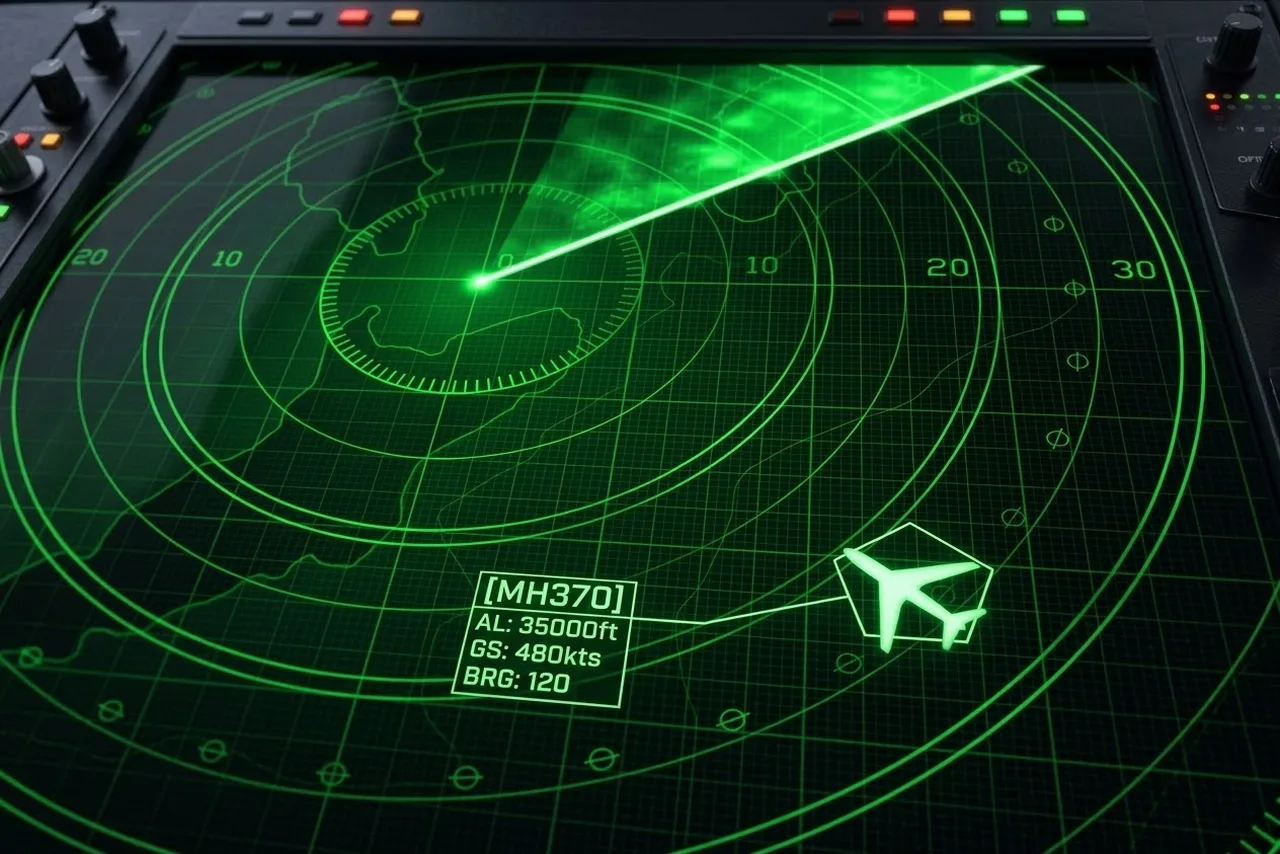
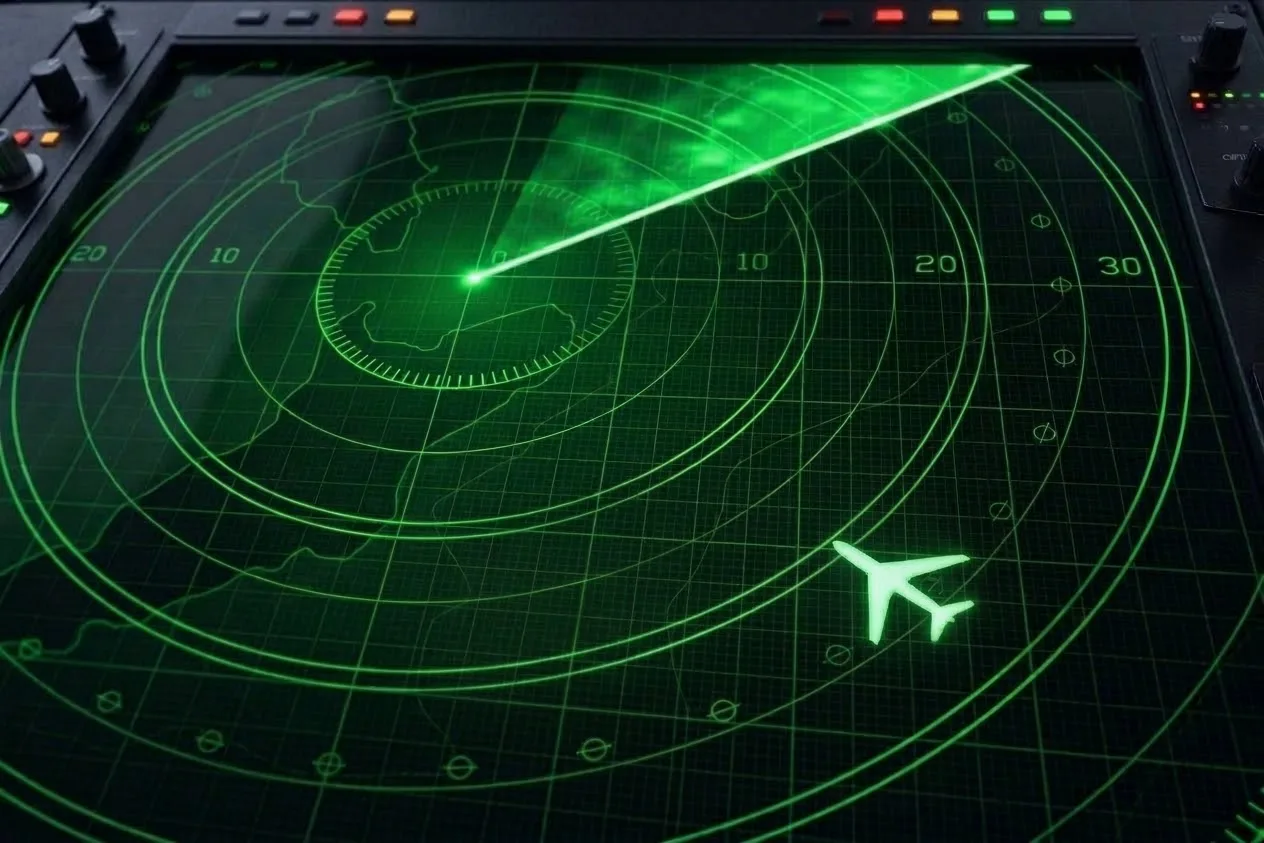
Hangar Escola: fotos nos capítulos 6, 7 e 9 do MH370
Claude-Session: https://claude.ai/code/session_01PxKViBYL6qRqF4hkoHqSJb

diff --git a/aviao/desastres.js b/aviao/desastres.js
@@ -573,13 +573,13 @@ const ACIDENTES = [
     p: ["Menos de dois minutos depois, à 01:21:13 seg, o sinal do transponder do MH370 desapareceu das telas de controle, logo depois de o avião passar pelo ponto IGARI. A etiqueta com o nome do voo simplesmente sumiu do radar.", "Ninguém deu o alarme na hora. Em Ho Chi Minh, o controle esperava o contato do avião, que não veio. Só à 01:38 os vietnamitas ligaram para Kuala Lumpur perguntando pelo MH370.", "Seguiram-se horas de confusão. Os controladores dos dois países trocavam ligações, a empresa chegou a informar que o avião parecia estar sobre o Camboja, e um avião da própria Malaysia Airlines que passava pela região tentou chamar o MH370 pelo rádio. O piloto disse ter ouvido apenas chiado e algo parecido com um murmúrio.", "O centro de busca e salvamento só foi acionado às 05:30, mais de quatro horas depois do sumiço. O relatório oficial apontaria, anos depois, falhas dos controles de tráfego aéreo nessa noite."] },
   { t: "A volta no escuro", parte: 1, hora: "01:22", lugar: "Sobre a península da Malásia", sabia: "O radar militar é um radar primário: ele enxerga o eco de qualquer objeto grande no céu, com ou sem transponder, mas não sabe quem é.", cena: CENAS.curva,
     p: ["Enquanto os controles procuravam o avião, os radares militares da Malásia registravam um eco sem identificação. Logo depois do ponto IGARI, o MH370 fez uma curva fechada para a esquerda e deu meia-volta, para o sudoeste.", "O avião atravessou de volta a península da Malásia, passou perto de Kota Bharu e seguiu em direção à ilha de Penang, na costa oeste. Por volta da 01:52, passou ao sul de Penang, a cidade natal do comandante.", "Os militares viram o eco, mas não reagiram. Consideraram que era um avião civil, sem ameaça, e ninguém mandou caças para olhar de perto.", "A investigação concluiria que a curva muito provavelmente foi feita com o avião sendo pilotado à mão, e não pelo piloto automático. Quem pilotava, e por quê, continua sem resposta."] },
-  { t: "O último eco", foto: { src: "assets/mh370-ultimo-eco.webp", legenda: "Recriação de uma tela de radar com o MH370 (imagem ilustrativa). No radar militar, o avião era só um eco sem nome: sem o transponder, não havia etiqueta com altitude e velocidade.", tag: "02:22 · o último eco no radar militar" }, parte: 1, hora: "02:22", lugar: "Mar de Andamão", sabia: "Depois de Penang, o avião seguiu pelo Estreito de Malaca, uma das rotas de navios mais movimentadas do mundo, entre a Malásia e a ilha de Sumatra.", cena: CENAS.ultimoEco,
+  { t: "O último eco", foto: { src: "assets/mh370-ultimo-eco.webp", legenda: "Recriação de uma tela de radar (imagem ilustrativa). No radar militar, o MH370 era só um eco sem nome: sem o transponder, não aparecia identificação, altitude nem velocidade.", tag: "02:22 · o último eco no radar militar" }, parte: 1, hora: "02:22", lugar: "Mar de Andamão", sabia: "Depois de Penang, o avião seguiu pelo Estreito de Malaca, uma das rotas de navios mais movimentadas do mundo, entre a Malásia e a ilha de Sumatra.", cena: CENAS.ultimoEco,
     p: ["Depois de Penang, o eco seguiu para o noroeste, sobre o Estreito de Malaca, em direção ao Mar de Andamão. O avião continuava em silêncio: sem rádio, sem transponder, sem mensagens.", "Às 02:22, o radar militar registrou o último eco do MH370, cerca de 200 milhas náuticas a noroeste de Penang. Depois disso, o avião saiu do alcance de todos os radares.", "Ninguém sabe o que acontecia lá dentro. Não se sabe se os passageiros perceberam a mudança de rumo, se estavam dormindo, se estavam conscientes. Nenhum telefone, nenhuma mensagem, nenhum pedido de socorro saiu do avião.", "Para o mundo, o MH370 tinha desaparecido. Mas ainda havia alguém escutando."] },
-  { t: "O satélite que continuou ouvindo", parte: 2, hora: "02:25", lugar: "Algum lugar sobre o Oceano Índico", sabia: "Os dados do MH370 foram analisados pela empresa britânica Inmarsat. Foi a primeira vez que esse tipo de sinal foi usado para tentar descobrir a rota de um avião.", cena: CENAS.satelite,
+  { t: "O satélite que continuou ouvindo", foto: { src: "assets/mh370-satelite.webp", legenda: "Recriação de um satélite da Inmarsat em órbita sobre a Terra (imagem ilustrativa)", tag: "Um “aperto de mão” por hora" }, parte: 2, hora: "02:25", lugar: "Algum lugar sobre o Oceano Índico", sabia: "Os dados do MH370 foram analisados pela empresa britânica Inmarsat. Foi a primeira vez que esse tipo de sinal foi usado para tentar descobrir a rota de um avião.", cena: CENAS.satelite,
     p: ["Às 02:25, três minutos depois do último eco no radar, o terminal de comunicação por satélite do avião voltou a se conectar sozinho. Ele tinha sido desligado e religado, por um motivo que ninguém sabe explicar.", "O avião estava ligado a um satélite da empresa Inmarsat, parado sobre o Oceano Índico. A cada hora, mais ou menos, a estação em terra mandava um sinal perguntando se o avião ainda estava lá, e o terminal respondia sozinho. Era só um “aperto de mão”, sem posição, sem mensagem.", "Às 02:39 e às 07:13, a Malaysia Airlines ligou para o avião por esse satélite. O telefone tocou na cabine e ninguém atendeu.", "Mas os apertos de mão guardavam uma pista. Pelo tempo que o sinal levava para ir e voltar, dava para saber a que distância o avião estava do satélite. Cada resposta virava um arco sobre o mapa: o avião estava em algum ponto daquela linha."] },
   { t: "08:19", parte: 2, hora: "08:19", lugar: "Sul do Oceano Índico", sabia: "Pela análise de pequenas variações na frequência do sinal, os especialistas concluíram que o avião voou para o sul, e não para o norte, em direção à Ásia Central.", cena: CENAS.arco7,
     p: ["Às 06:30, o MH370 deveria pousar em Pequim. No aeroporto, famílias esperavam no saguão de desembarque. O painel mostrava o voo como atrasado. Às 07:24, a Malaysia Airlines anunciou que tinha perdido o contato com o avião.", "Enquanto isso, o 777 seguia voando sozinho, para o sul, sobre o oceano, havia horas. Às 08:11, respondeu a mais um aperto de mão.", "Às 08:19, o terminal mandou um último sinal, incompleto. Os especialistas acreditam que foi o momento em que o combustível acabou e os motores pararam: sem energia, o sistema reiniciou e tentou se conectar uma última vez. Esse sinal deu origem ao famoso 7º arco.", "Às 09:15, o satélite chamou de novo. Não houve resposta. O MH370 tinha caído em algum ponto do sul do Oceano Índico, um dos lugares mais remotos e profundos do planeta, quase sete horas e meia depois da decolagem."] },
-  { t: "Procurando no lugar errado", parte: 3, hora: "Março de 2014", lugar: "Mar da China Meridional", sabia: "Quatro meses depois, em julho de 2014, outro avião da Malaysia Airlines, o MH17, foi derrubado por um míssil sobre a Ucrânia, com 298 pessoas a bordo.", cena: CENAS.buscaMar,
+  { t: "Procurando no lugar errado", foto: { src: "assets/mh370-busca.webp", legenda: "Recriação de navios e aviões de vários países na busca pelo MH370 (imagem ilustrativa)", tag: "26 países na busca" }, parte: 3, hora: "Março de 2014", lugar: "Mar da China Meridional", sabia: "Quatro meses depois, em julho de 2014, outro avião da Malaysia Airlines, o MH17, foi derrubado por um míssil sobre a Ucrânia, com 298 pessoas a bordo.", cena: CENAS.buscaMar,
     p: ["Nos primeiros dias, navios e aviões de vários países procuraram o MH370 no Mar da China Meridional, onde ele tinha sumido do radar civil. Manchas de óleo e objetos boiando foram examinados. Nada era do avião.", "Só alguns dias depois os militares malaios revelaram que tinham visto o eco voltando sobre a península. A busca se espalhou pelo Estreito de Malaca e pelo Mar de Andamão. Chegou a envolver 26 países.", "Em Pequim, as famílias passavam os dias num hotel, esperando notícias que não chegavam. As informações desencontradas do governo malaio e da empresa provocaram revolta.", "Em 15 de março, o primeiro-ministro da Malásia, Najib Razak, anunciou que as comunicações do avião tinham sido desligadas de forma deliberada e que ele tinha voado por horas depois de sumir do radar."] },
   { t: "“No sul do Oceano Índico”", parte: 3, hora: "24 de março", lugar: "Kuala Lumpur", sabia: "Em janeiro de 2015, as autoridades da Malásia declararam oficialmente o desaparecimento do MH370 um acidente, e todos a bordo foram considerados mortos.", cena: CENAS.anuncio,
     p: ["Com a análise dos sinais do satélite, a Inmarsat e os investigadores britânicos concluíram que o avião tinha voado para o sul até ficar sem combustível, longe de qualquer pista de pouso.", "Em 24 de março de 2014, Najib Razak foi à televisão e anunciou: o voo MH370 terminou no sul do Oceano Índico. Pouco antes, a Malaysia Airlines tinha mandado mensagens de texto a parte das famílias dizendo que não havia sobreviventes.", "A notícia, e a forma como foi dada, causou desespero e raiva. Em Pequim, familiares protestaram em frente à embaixada da Malásia. Muitos não aceitaram a conclusão sem nenhum destroço como prova.", "A busca mudou de lugar: milhares de quilômetros ao sul, a oeste da Austrália, que passou a coordenar a operação."] },

diff --git a/aviao/sw.js b/aviao/sw.js
@@ -1,7 +1,7 @@
 /* Service worker: o app abre e funciona offline. */
-const CACHE = 'hangar-escola-v143';
+const CACHE = 'hangar-escola-v144';
 // Os arquivos levam "?v=" no index.html: ao mudar a versão, o celular nunca mistura CSS/JS antigo com HTML novo.
-const FILES = ['./', 'index.html', 'style.css?v=143', 'avioes.js?v=143', 'catalogo747.js?v=143', 'cockpit747.js?v=143', 'motor3d.js?v=143', 'motor747.js?v=143', 'meteo.js?v=143', 'radio.js?v=143', 'historia.js?v=143', 'desastres.js?v=143', 'app.js?v=143', 'icon.svg', 'apple-touch-icon.png', 'icon-192.png', 'icon-512.png', 'manifest.webmanifest', 'assets/747-lateral.jpg', 'assets/747-frontal.jpg', 'assets/747-motor.jpg', 'assets/747-superior.png', 'assets/747-lado.webp', 'assets/747-lado-prof.webp', 'assets/747-tras.webp', 'assets/747-tras-trem.webp', 'assets/bank-angle.mp3', 'assets/v1.mp3', 'assets/nuvem-cb.webp', 'assets/nuvem-cu.webp', 'assets/nuvem-ci.webp', 'assets/nuvem-cc.webp', 'assets/nuvem-cs.webp', 'assets/nuvem-ac.webp', 'assets/nuvem-as.webp', 'assets/nuvem-ns.webp', 'assets/nuvem-sc.webp', 'assets/nuvem-st.webp', 'assets/nuvens-atlas.webp', 'assets/historia-1881.webp', 'assets/historia-vevey.webp', 'assets/historia-serraria.webp', 'assets/historia-dominguez.webp', 'assets/historia-curtiss.webp', 'assets/jal123-mapa.webp', 'assets/jal123-haneda.webp', 'assets/jal123-decolagem.webp', 'assets/jal123-cauda.webp', 'assets/jal123-cabine.webp', 'assets/jal123-hidraulico.webp', 'assets/jal123-manetes.webp', 'assets/jal123-montanhas.webp', 'assets/jal123-bilhete.webp', 'assets/jal123-c130.webp', 'assets/jal123-deriva.webp', 'assets/af447-mapa.webp', 'assets/af447-galeao.webp', 'assets/af447-decolagem.webp', 'assets/af447-lua.webp', 'assets/af447-tempestade.webp', 'assets/af447-painel.webp', 'assets/cauda-af.webp', 'assets/cauda-jal.webp', 'assets/cauda-mh.webp', 'assets/af447-pitot.webp', 'assets/af447-pitot-gelo.webp', 'assets/af447-manches.webp', 'assets/af447-estol.webp', 'assets/af447-cabine.webp', 'assets/af447-queda.webp', 'assets/af447-deriva.webp', 'assets/af447-painel-voos.webp', 'assets/af447-fundo.webp', 'assets/af447-relatorio.webp', 'assets/af447-sondas.webp', 'assets/af447-tribunal.webp', 'assets/af447-estol-diagrama.webp', 'assets/mh370-mapa.webp', 'assets/mh370-klia.webp', 'assets/mh370-decolagem.webp', 'assets/mh370-cinto.webp', 'assets/mh370-radar.webp', 'assets/mh370-peninsula.webp', 'assets/mh370-oceano.webp', 'assets/mh370-ultimo-eco.webp'];
+const FILES = ['./', 'index.html', 'style.css?v=144', 'avioes.js?v=144', 'catalogo747.js?v=144', 'cockpit747.js?v=144', 'motor3d.js?v=144', 'motor747.js?v=144', 'meteo.js?v=144', 'radio.js?v=144', 'historia.js?v=144', 'desastres.js?v=144', 'app.js?v=144', 'icon.svg', 'apple-touch-icon.png', 'icon-192.png', 'icon-512.png', 'manifest.webmanifest', 'assets/747-lateral.jpg', 'assets/747-frontal.jpg', 'assets/747-motor.jpg', 'assets/747-superior.png', 'assets/747-lado.webp', 'assets/747-lado-prof.webp', 'assets/747-tras.webp', 'assets/747-tras-trem.webp', 'assets/bank-angle.mp3', 'assets/v1.mp3', 'assets/nuvem-cb.webp', 'assets/nuvem-cu.webp', 'assets/nuvem-ci.webp', 'assets/nuvem-cc.webp', 'assets/nuvem-cs.webp', 'assets/nuvem-ac.webp', 'assets/nuvem-as.webp', 'assets/nuvem-ns.webp', 'assets/nuvem-sc.webp', 'assets/nuvem-st.webp', 'assets/nuvens-atlas.webp', 'assets/historia-1881.webp', 'assets/historia-vevey.webp', 'assets/historia-serraria.webp', 'assets/historia-dominguez.webp', 'assets/historia-curtiss.webp', 'assets/jal123-mapa.webp', 'assets/jal123-haneda.webp', 'assets/jal123-decolagem.webp', 'assets/jal123-cauda.webp', 'assets/jal123-cabine.webp', 'assets/jal123-hidraulico.webp', 'assets/jal123-manetes.webp', 'assets/jal123-montanhas.webp', 'assets/jal123-bilhete.webp', 'assets/jal123-c130.webp', 'assets/jal123-deriva.webp', 'assets/af447-mapa.webp', 'assets/af447-galeao.webp', 'assets/af447-decolagem.webp', 'assets/af447-lua.webp', 'assets/af447-tempestade.webp', 'assets/af447-painel.webp', 'assets/cauda-af.webp', 'assets/cauda-jal.webp', 'assets/cauda-mh.webp', 'assets/af447-pitot.webp', 'assets/af447-pitot-gelo.webp', 'assets/af447-manches.webp', 'assets/af447-estol.webp', 'assets/af447-cabine.webp', 'assets/af447-queda.webp', 'assets/af447-deriva.webp', 'assets/af447-painel-voos.webp', 'assets/af447-fundo.webp', 'assets/af447-relatorio.webp', 'assets/af447-sondas.webp', 'assets/af447-tribunal.webp', 'assets/af447-estol-diagrama.webp', 'assets/mh370-mapa.webp', 'assets/mh370-klia.webp', 'assets/mh370-decolagem.webp', 'assets/mh370-cinto.webp', 'assets/mh370-radar.webp', 'assets/mh370-peninsula.webp', 'assets/mh370-oceano.webp', 'assets/mh370-ultimo-eco.webp', 'assets/mh370-satelite.webp', 'assets/mh370-busca.webp'];
 
 self.addEventListener('install', (e) => {
   e.waitUntil(caches.open(CACHE).then((c) => c.addAll(FILES)).then(() => self.skipWaiting()));

diff --git a/aviao/index.html b/aviao/index.html
@@ -17,7 +17,7 @@
   <link rel="preconnect" href="https://fonts.googleapis.com">
   <link rel="preconnect" href="https://fonts.gstatic.com" crossorigin>
   <link href="https://fonts.googleapis.com/css2?family=Barlow+Condensed:wght@500;600;700&family=IBM+Plex+Mono:wght@400;500&family=IBM+Plex+Sans:wght@400;500;600&display=swap" rel="stylesheet">
-  <link rel="stylesheet" href="style.css?v=143">
+  <link rel="stylesheet" href="style.css?v=144">
 </head>
 <body>
   <!-- Intro: o avião decola pela pista iluminada e aparece o nome do app (toque para pular) -->
@@ -988,16 +988,16 @@
       </div>
     </section>
   </aside>
-  <script src="avioes.js?v=143"></script>
-  <script src="catalogo747.js?v=143"></script>
-  <script src="cockpit747.js?v=143"></script>
-  <script src="motor3d.js?v=143"></script>
-  <script src="motor747.js?v=143"></script>
-  <script src="meteo.js?v=143"></script>
-  <script src="radio.js?v=143"></script>
-  <script src="historia.js?v=143"></script>
-  <script src="desastres.js?v=143"></script>
-  <script src="app.js?v=143"></script>
+  <script src="avioes.js?v=144"></script>
+  <script src="catalogo747.js?v=144"></script>
+  <script src="cockpit747.js?v=144"></script>
+  <script src="motor3d.js?v=144"></script>
+  <script src="motor747.js?v=144"></script>
+  <script src="meteo.js?v=144"></script>
+  <script src="radio.js?v=144"></script>
+  <script src="historia.js?v=144"></script>
+  <script src="desastres.js?v=144"></script>
+  <script src="app.js?v=144"></script>
   <script>
     // No APK os arquivos já vêm dentro do app; o service worker é só para o site.
     const nativo = !!(window.Capacitor && window.Capacitor.isNativePlatform && window.Capacitor.isNativePlatform());
